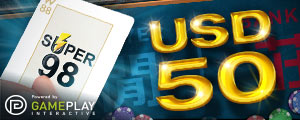
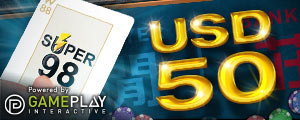
Promo Update 03112016-1500

Changed region(s): [[0.0, 0.7, 0.36, 0.975]]

diff --git a/W88.m/_Static/Promotions/promotions.vi-vn.htm b/W88.m/_Static/Promotions/promotions.vi-vn.htm
@@ -79,7 +79,7 @@
                         <ol>
                           <li>Khuyến mãi này dành cho tất cả thành viên mới đăng kí với tiền tệ là USD, RMB, VND, IDR, THB, MYR và KRW. Thành viên chỉ được phép nhận duy nhất một loại tiền thưởng chào mừng.</li>
                           <li>Chương trình khuyến mãi này bắt đầu từ <strong>00:00:00 (GMT+8) ngày 01/03/2016</strong> đến <strong>23:59:59 ngày 31/03/2016</strong>. Khuyến mãi này diễn ra trong thời gian nhất định và số lượng có hạn. Khuyến mãi này còn tùy thuộc vào số lượng thành viên được tham gia khuyến mãi tại thời điểm thành viên đăng kí nhận khuyến mãi. W88.com có quyền hủy thưởng và tạm ngưng chương trình khuyến mãi vào bất kỳ thời gian nào mà không cần thông báo.</li>
-                          <li>Để hội đủ điều kiện, chỉ cần thực hiện lệnh Gửi Tiền tối thiểu VND 200 hoặc hơn và chuyển quỹ sang tài khoản Slot mà bạn muốn tham gia. Mỗi thành viên có thể nhận 1 lần duy nhất cho lần đầu tiên gửi tiền và chuyển quỹ vào sản phẩm Slots games(Club Bravado, Club Palazzo, Club Divino, Club Gallardo). Chú ý rằng Casino trực tuyến không bao gồm trong Trò Chơi Slots.</li></ol>
+                          <li>Để hội đủ điều kiện, chỉ cần thực hiện lệnh Gửi Tiền tối thiểu VND 200 hoặc hơn và chuyển quỹ sang tài khoản Slot mà bạn muốn tham gia. Mỗi thành viên có thể nhận 1 lần duy nhất cho lần đầu tiên gửi tiền và chuyển quỹ vào sản phẩm Slots games(Club Bravado, Club Palazzo, Club Divino, Club Gallardo, Club Apollo, Club Massimo). Chú ý rằng Casino trực tuyến không bao gồm trong Trò Chơi Slots.</li></ol>
                        </div>
                        
                        <div class="paragraph">
@@ -542,7 +542,7 @@
 								  <strong>ĐIỀU KIỆN VÀ ĐIỀU KHOẢN:</strong>
 						  </div>
                         <ol>
-                          <li>Chương trình khuyến mãi này bắt đầu từ 00:00:01 (GMT+ 8) ngày 10/03/2014 đến 23:59:59 (GMT+ 8) ngày 20/03/2014 ,  dành cho Thành Viên Việt Nam đăng ký tiền tệ VND .</li>
+                          <li>Chương trình khuyến mãi này bắt đầu từ 00:00:01 (GMT+ 8) ngày 10/03/2016 đến 23:59:59 (GMT+ 8) ngày 20/03/2016 ,  dành cho Thành Viên Việt Nam đăng ký tiền tệ VND .</li>
                           <li>Thành Viên cần có giao dịch gửi tiền thành công 1,000 VND trong thời gian diễn ra khuyến mãi và tiến hành đặt cược vào a-Thể thao trong các trận đấu quy định sau:</li>
                           
                                 <table border="0" cellpadding="5" cellspacing="1">
@@ -2814,7 +2814,7 @@ Với hơn 50.000 sự kiện thể thao hàng tháng trên E-Thể Thao, việc
 				</div>
 				<div class="promotion_group_body">
 					<div class="promotion_group_body_inner">
-						<img src="/_static/promotions/img/W88-Promotions-98-Baccarat-5-210115-VN-small.jpg" />
+						<img src="/_static/promotions/img/W88-Promotions-98-Baccarat-5-210115-VN-small.jpg?20160311" />
 						<div class="promotion_title dinpro">
 							THƯỞNG NGAY 888 VND KHI THẮNG LIÊN TỤC TẠI BACCARAT SUPER 98</div>
 						<div class="promotion_content"></div>

diff --git a/W88.m/_Static/Promotions/promotions.en-us.my.htm b/W88.m/_Static/Promotions/promotions.en-us.my.htm
@@ -3891,7 +3891,7 @@ Time to bring your partner out for the all-time best single pop star show; here 
 				</div>
 				<div class="promotion_group_body">
 					<div class="promotion_group_body_inner">
-						<img src="/_static/promotions/img/W88-Promotions-98-Baccarat-5-210115-MY-small.jpg" />
+						<img src="/_static/promotions/img/W88-Promotions-98-Baccarat-5-210115-MY-small.jpg?20160311" />
 						<div class="promotion_title dinpro">
 							GET EXTRA MYR138 JUST BY PLAYING SUPER 98 BACCARAT</div>
 						<div class="promotion_content">Consecutive Win More, Get Your Extra Bonus More, only from W88 Super 98 Baccarat</div>

diff --git a/W88.m/_Static/Promotions/promotions.th-th.htm b/W88.m/_Static/Promotions/promotions.th-th.htm
@@ -2854,7 +2854,7 @@
 				</div>
 				<div class="promotion_group_body">
 					<div class="promotion_group_body_inner">
-						<img src="/_static/promotions/img/W88-Promotions-98-Baccarat-5-210115-TH-small.jpg" />
+						<img src="/_static/promotions/img/W88-Promotions-98-Baccarat-5-210115-TH-small.jpg?20160311" />
 						<div class="promotion_title dinpro">
 							รับโบนัสเพิ่มสูงสุด 1,380 บาททันที เมื่อเล่นบาคาร่า 98 วันนี้!!</div>
 						<div class="promotion_content"></div>

diff --git a/W88.m/_Static/Promotions/promotions.ko-kr.htm b/W88.m/_Static/Promotions/promotions.ko-kr.htm
@@ -4267,7 +4267,7 @@ W88은 언제든지 사전 통보없이 해당 이벤트와 지급된 보너스 
 				</div>
 				<div class="promotion_group_body">
 					<div class="promotion_group_body_inner">
-						<img src="/_static/promotions/img/W88-Promotions-98-Baccarat-5-210115-KR-small.jpg" />
+						<img src="/_static/promotions/img/W88-Promotions-98-Baccarat-5-210115-KR-small.jpg?20160311" />
 						<div class="promotion_title dinpro">
 							슈퍼 98 바카라 이용하고 추가로 4만원 받자!</div>
 						<div class="promotion_content"></div>

diff --git a/W88.m/_Static/Promotions/promotions.ja-jp.htm b/W88.m/_Static/Promotions/promotions.ja-jp.htm
@@ -2462,7 +2462,7 @@ EPL新シーズンは、2015年8月8日にスタートします。
 				</div>
 				<div class="promotion_group_body">
 					<div class="promotion_group_body_inner">
-						<img src="/_static/promotions/img/W88-Promotions-98-Baccarat-5-210115-JP-small.jpg" />
+						<img src="/_static/promotions/img/W88-Promotions-98-Baccarat-5-210115-JP-small.jpg?20160311" />
 						<div class="promotion_title dinpro">
 							スーパー98バカラで追加ボーナス最高USD50/6,000JPYを獲得しましょう！
 					  </div>

diff --git a/W88.m/_Static/Promotions/promotions.en-us.htm b/W88.m/_Static/Promotions/promotions.en-us.htm
@@ -1873,7 +1873,7 @@ Required Bet Amount = (10 + 2) x 20 = USD 240</p>
 				</div>
 				<div class="promotion_group_body">
 					<div class="promotion_group_body_inner">
-						<img src="/_static/promotions/img/W88-Promotions-98-Baccarat-5-210115-EN-small.jpg" />
+						<img src="/_static/promotions/img/W88-Promotions-98-Baccarat-5-210115-EN-small.jpg?20160311" />
 						<div class="promotion_title dinpro">
 							GET EXTRA USD50 JUST BY PLAYING SUPER 98 BACCARAT
 					  </div>

diff --git a/W88.m/_Static/Promotions/promotions.km-kh.htm b/W88.m/_Static/Promotions/promotions.km-kh.htm
@@ -1977,7 +1977,7 @@
 				</div>
 				<div class="promotion_group_body">
 					<div class="promotion_group_body_inner">
-						<img src="/_static/promotions/img/W88-Promotions-98-Baccarat-5-210115-KH-small.jpg" />
+						<img src="/_static/promotions/img/W88-Promotions-98-Baccarat-5-210115-KH-small.jpg?20160311" />
 						<div class="promotion_title dinpro">
 							លេង SUPER 98 BACCARAT នឹងទទួលការបន្ថែម USD 50
 					  </div>

diff --git a/W88.m/_Static/Promotions/promotions.id-id.htm b/W88.m/_Static/Promotions/promotions.id-id.htm
@@ -2983,7 +2983,7 @@ pembayaran).</li>
 				</div>
 				<div class="promotion_group_body">
 					<div class="promotion_group_body_inner">
-						<img src="/_static/promotions/img/W88-Promotions-98-Baccarat-5-210115-ID-small.jpg" />
+						<img src="/_static/promotions/img/W88-Promotions-98-Baccarat-5-210115-ID-small.jpg?20160311" />
 						<div class="promotion_title dinpro">
 							SUPER 98 BACCARAT</div>
 						<div class="promotion_content">

diff --git a/W88.m/_Static/Promotions/promotions.zh-cn.htm b/W88.m/_Static/Promotions/promotions.zh-cn.htm
@@ -2754,7 +2754,7 @@
 				</div>
 				<div class="promotion_group_body">
 					<div class="promotion_group_body_inner">
-						<img src="/_static/promotions/img/W88-Promotions-98-Baccarat-5-210115-CN-small.jpg" />
+						<img src="/_static/promotions/img/W88-Promotions-98-Baccarat-5-210115-CN-small.jpg?20160311" />
 						<div class="promotion_title dinpro">
 							超级98连局奖金</div>
 						<div class="promotion_content">
